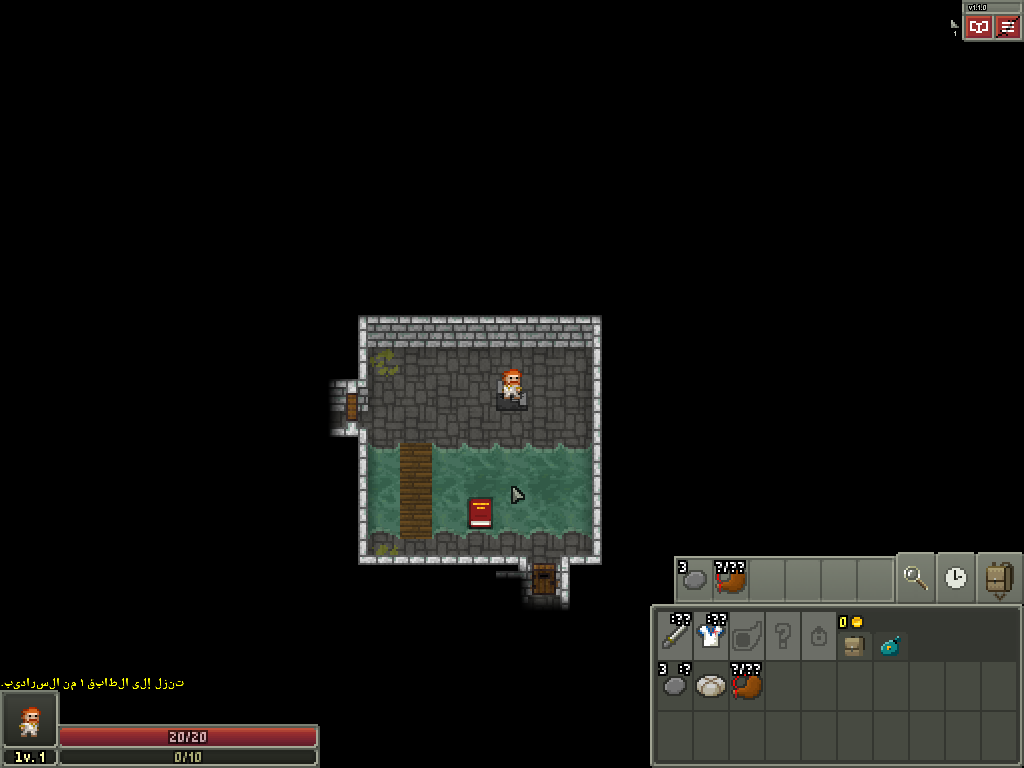
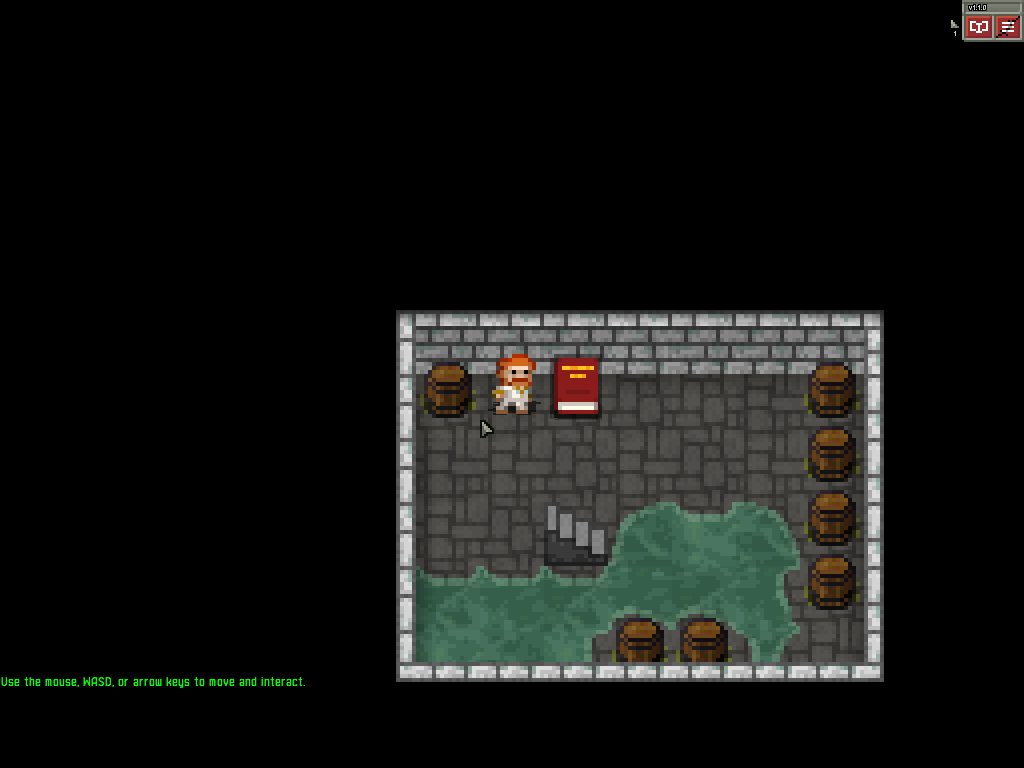
World-class README with full media gallery
English presentation README: story, features, all six heroes with
splash art, the five regions with art, all five bosses, how-to-play
guide, screenshots and a gameplay GIF. Language-specific screenshots
removed in favour of neutral English captures.

diff --git a/README.md b/README.md
@@ -1,85 +1,160 @@
-# Atlas Pixel Dungeon | سراديب أطلس
+<p align="center">
+  <img src="media/regions/sunken-cisterns.jpg" alt="The Sunken Cisterns" width="720">
+</p>
 
-**لعبة تقمّص أدوار (Roguelike) داخل سراديب خطيرة مولّدة عشوائيًا — بنسخة عربية كاملة.**
+<h1 align="center">Atlas Pixel Dungeon</h1>
 
-Atlas Pixel Dungeon هي طبعة جديدة من لعبة Shattered Pixel Dungeon مفتوحة المصدر، بهوية وقصة جديدتين مستوحاتين من أسطورة الملك أطلس، صانع الخرائط الأسطوري الذي وحّد مملكة ماوريطانيا القديمة وختم ظلامًا عتيقًا تحت قصره. انزل عبر خمس طبقات من مملكته المدفونة، اهزم حرّاسها، وانتزع **تاج أطلس** من الظلام المختوم.
+<p align="center">
+  <em>Descend into the buried kingdom of King Atlas. Claim the Crown. Seal the darkness again — or be sealed with it.</em>
+</p>
 
-**Atlas Pixel Dungeon is a reimagined edition of the open-source roguelike Shattered Pixel Dungeon** — a new world, new heroes, and a complete hand-made Arabic translation. Descend through the buried kingdom of the legendary King Atlas, defeat its five guardians, and claim the **Crown of Atlas**.
+<p align="center">
+  <img src="https://img.shields.io/badge/version-1.1.0-gold" alt="Version 1.1.0">
+  <img src="https://img.shields.io/badge/license-GPL--3.0-blue" alt="License GPL-3.0">
+  <img src="https://img.shields.io/badge/platform-Android%20%7C%20Desktop-green" alt="Platforms">
+  <img src="https://img.shields.io/badge/languages-22%20incl.%20full%20Arabic-red" alt="22 languages">
+</p>
 
----
+<p align="center">
+  <img src="screenshots/gameplay.gif" alt="Gameplay" width="560">
+</p>
 
-## لقطات | Screenshots
+**Atlas Pixel Dungeon** is a traditional roguelike dungeon crawler with randomly generated levels, hundreds of items, and turn-based tactical combat. Every run is different: the floors, the loot, the enemies and the dangers are generated fresh each time you play — and death is permanent.
 
-![العنوان بالعربية](screenshots/title_ar.png)
-![اختيار البطل](screenshots/heroes_ar.png)
-![داخل اللعبة](screenshots/gameplay.png)
-![الإعدادات بالعربية](screenshots/settings_ar.png)
+It is a full reimagining of the open-source classic *Shattered Pixel Dungeon*, rebuilt around a new legend: **Atlas**, the ancient king and cartographer who mapped the mountains, forged the **Crown of Atlas**, and sealed an ancient darkness beneath his kingdom. The city above still whispers that the Crown rests in the depths below. Many heroes have gone down to claim it. None have returned.
 
----
+Will you conquer the dungeon and claim the Crown?
 
-## الأبطال الستة | The Six Heroes
+## ✨ Features
 
-| البطل | Hero | الوصف |
-|---|---|---|
-| الملك أطلس | **Atlas King** | محارب صلب؛ يتحمل ضررًا أقل كلما تضرّر درعه |
-| حكيم النجوم | **Star Sage** | ساحر يوجّه قوة عصاه السحرية |
-| ظل الكثبان | **Dune Shadow** | مخادع سريع يضرب من الظل |
-| صيّادة الأرز | **Cedar Huntress** | صيّادة بروح رفيقة وقوس لا يخيب |
-| نصل السيروكو | **Sirocco Blade** | مبارزة تزداد قوة مع كل ضربة متتالية |
-| كاهن الفجر | **Dawn Priest** | رجل دين يحمل مخطوطة الفجر ويخدم الضعفاء |
+- **A complete new world and story** — a buried kingdom in five layers, with rewritten lore, characters, enemies and endings
+- **6 heroes**, each with unique abilities, and **12 subclasses** to specialize into
+- **25 floors** of procedurally generated dungeon, plus generated side-floors and quests
+- **5 bosses**, each with its own arena and mechanics
+- **Hundreds of items**: weapons, armor, wands, rings, artifacts, potions, scrolls, seeds and more
+- **Full Arabic localization** with proper connected-script rendering — alongside 21 other languages
+- **In-game news and updates served from this very repository** (see [`news.xml`](news.xml))
+- **No account, no always-online requirement** — a classic single-player roguelike
+- **Completely free and open source** under the GNU GPL-3.0
 
-## المناطق والزعماء | Regions & Bosses
+## 🗡 The Heroes
 
-الصهاريج الغارقة (The Sunken Cisterns) — **سيد الوحل The Mirelord**
-سجن السلاسل (The Prison of Chains) — **حارس السلاسل The Chain Warden**
-كهوف الجذور (The Root Caves) — **المحرّك المدفون The Buried Engine (AE-300)**
-المدينة المدفونة (The Buried City) — **الملك المدفون The Buried King**
-القاعات المختومة (The Sealed Halls) — **الظلام المختوم The Sealed Darkness**
+<table>
+  <tr>
+    <td align="center" width="33%"><img src="media/heroes/atlas-king.jpg" width="260" alt="Atlas King"><br><b>Atlas King</b><br>The heir of the mountain throne. His <b>mountain seal</b> turns part of the damage he takes into shielding, and the seal can carry a single upgrade between armors. A durable front-line fighter.</td>
+    <td align="center" width="33%"><img src="media/heroes/star-sage.jpg" width="260" alt="Star Sage"><br><b>Star Sage</b><br>A scholar of the celestial charts. Begins with a <b>magic staff</b> that can be imbued with any wand he finds, growing stronger as he masters the arcane.</td>
+    <td align="center" width="33%"><img src="media/heroes/dune-shadow.jpg" width="260" alt="Dune Shadow"><br><b>Dune Shadow</b><br>A silent walker of the sands. His <b>dune cloak</b> lets him vanish from sight and strike from the shadows for devastating surprise attacks.</td>
+  </tr>
+  <tr>
+    <td align="center" width="33%"><img src="media/heroes/cedar-huntress.jpg" width="260" alt="Cedar Huntress"><br><b>Cedar Huntress</b><br>Raised among the cedar forests. Her <b>spirit bow</b> never runs out of arrows, and her senses reach through grass and walls to track her prey.</td>
+    <td align="center" width="33%"><img src="media/heroes/sirocco-blade.jpg" width="260" alt="Sirocco Blade"><br><b>Sirocco Blade</b><br>Fast as the desert wind. A duelist who unlocks a special <b>weapon ability</b> from every weapon she wields, and chains them together in flowing combos.</td>
+    <td align="center" width="33%"><img src="media/heroes/dawn-priest.jpg" width="260" alt="Dawn Priest"><br><b>Dawn Priest</b><br>A servant of the first light. Carries the <b>Tome of Dawn</b>, whose divine spells grow in power as he gains experience and guides his flock of light through the dark.</td>
+  </tr>
+</table>
 
----
+Every hero can choose between **two subclasses** at depth, spend **talent points** as they level up, and — after proving themselves — attempt **challenge runs** with special rules for veteran players.
 
-## كيفية اللعب | How to Play
+## 🏰 The Buried Kingdom
 
-**الهدف:** انزل إلى أعمق طابق، اهزم الظلام المختوم، وخذ تاج أطلس ثم اصعد به إلى السطح. الموت دائم — إذا سقط بطلك تبدأ من جديد بسراديب مختلفة.
+The dungeon is the buried kingdom of Atlas itself, sunk layer by layer beneath the mountain:
 
-**The goal:** descend to the deepest floor, defeat the Sealed Darkness, take the Crown of Atlas, and escape back to the surface. Death is permanent — every run generates a brand-new dungeon.
+<table>
+  <tr>
+    <td><img src="media/regions/sunken-cisterns.jpg" width="320" alt="The Sunken Cisterns"></td>
+    <td><b>1 · The Sunken Cisterns</b> (floors 1–5)<br>The great vaults that once fed the city above with mountain water. The harmless creatures of the vaults have grown ferocious as dark energy crept up from below.<br>Boss: <b>The Mirelord</b></td>
+  </tr>
+  <tr>
+    <td><img src="media/regions/prison-of-chains.jpg" width="320" alt="The Prison of Chains"></td>
+    <td><b>2 · The Prison of Chains</b> (floors 6–10)<br>Where the king's prisoners — and later, his secrets — were kept under lock and ward. Something down here still rattles its chains.<br>Boss: <b>The Chain Warden</b></td>
+  </tr>
+  <tr>
+    <td><img src="media/regions/root-caves.jpg" width="320" alt="The Root Caves"></td>
+    <td><b>3 · The Root Caves</b> (floors 11–15)<br>Natural caverns pierced by the roots of the great cedars above. The old mining engines were left running — and they do not like visitors.<br>Boss: <b>The Buried Engine (AE-300)</b></td>
+  </tr>
+  <tr>
+    <td><img src="media/regions/buried-city.jpg" width="320" alt="The Buried City"></td>
+    <td><b>4 · The Buried City</b> (floors 16–20)<br>The capital itself, entombed with its king. Its last monarch still sits the throne, and he does not receive guests kindly.<br>Boss: <b>The Buried King</b></td>
+  </tr>
+  <tr>
+    <td><img src="media/regions/sealed-halls.jpg" width="320" alt="The Sealed Halls"></td>
+    <td><b>5 · The Sealed Halls</b> (floors 21–25)<br>Below the city, behind doors that were never meant to open, waits what King Atlas sealed away at the cost of his kingdom.<br>Boss: <b>The Sealed Darkness</b></td>
+  </tr>
+</table>
 
-**التحكم | Controls**
-- **النقر / اللمس (Tap / Click):** التحرك، الهجوم، فتح الأبواب، التقاط الغنائم، استعمال السلالم
-- **أزرار الواجهة:** الحقيبة (المخزون)، الانتظار، البحث عن الفخاخ والأبواب السرية، القائمة
-- **على الحاسوب:** الأسهم أو WASD للتحرك، والماوس لكل شيء آخر
+## 👹 The Bosses
 
-**نصائح للبقاء | Survival tips**
-- كل طابق فيه لفافة تطوير واحدة على الأقل — طوّر سلاحك أو درعك الأفضل.
-- الجرعات واللفافات مجهولة في البداية؛ جرّبها بعيدًا عن الخطر.
-- ابحث في الجدران: الأبواب السرية تخفي كنوزًا وطوابق إضافية.
-- كل 5 طوابق زعيم — جهّز جرعات الشفاء والتطوير قبل النزول.
-- الطعام يقيك الجوع؛ لا تأكل حتى تشبع تمامًا إلا عند الحاجة.
+<p align="center">
+  <img src="media/bosses/mirelord.png" width="110" alt="The Mirelord">
+  <img src="media/bosses/chain-warden.png" width="110" alt="The Chain Warden">
+  <img src="media/bosses/buried-engine.png" width="110" alt="The Buried Engine">
+  <img src="media/bosses/buried-king.png" width="110" alt="The Buried King">
+  <img src="media/bosses/sealed-darkness.png" width="110" alt="The Sealed Darkness">
+</p>
 
----
+- **The Mirelord** — a living mass of cistern filth that splits, heals, and poisons the water you stand in
+- **The Chain Warden** — the prison's masked keeper, who vanishes between the pillars and strikes without warning
+- **The Buried Engine (AE-300)** — a colossal mining machine that floods its chamber and calls its lesser engines to war
+- **The Buried King** — the last king of the buried city, raising his dead court to defend the throne
+- **The Sealed Darkness** — the ancient evil Atlas could not destroy, only imprison. Break the seal at your peril
 
-## المزايا | Features
+## 🎮 How to Play
 
-- **ترجمة عربية كاملة 100%** — كل نصوص اللعبة (نحو 5,000 نص) مترجمة يدويًا، بخط عربي واضح واتجاه صحيح من اليمين لليسار
-- **22 لغة** مدعومة في الإعدادات
-- **6 أبطال** بـ12 فئة فرعية ومواهب متعددة
-- سراديب مولّدة عشوائيًا: لا جولتين متشابهتين أبدًا
-- **إعلانات اختيارية**: إعلان واحد قصير عند نهاية الجولة فقط (بعد أول 3 جولات)، ويمكن إيقافها نهائيًا من الإعدادات ← الاتصال ← «إظهار الإعلانات»
-- بدون تتبّع وبدون جمع بيانات
+**Goal.** Descend to floor 26, take the **Crown of Atlas**, and — if you dare — bring it back to the surface for the true ending. Death is permanent: when you fall, that hero's story ends, and a new hero descends.
 
-## البناء من المصدر | Building from Source
+**Controls**
 
-```
-# Desktop (JDK 17+)
+- **Touch / mouse:** tap a tile to walk there, tap an enemy to attack, tap items to pick them up and use them
+- **Desktop:** mouse, `WASD` or arrow keys to move, and full keyboard shortcuts for inventory and actions
+
+**Survival basics**
+
+1. **Everything is unidentified.** Potions and scrolls are random in every run — identify them by use, by scroll, or by careful experiment (preferably somewhere safe, standing in water)
+2. **Eat.** Hunger is a slow enemy of its own. Rations drop from enemies and hide in the dungeon's storerooms
+3. **Upgrade wisely.** Scrolls of upgrade are limited; a focused weapon or armor carries a run further than spreading upgrades thin
+4. **Use the terrain.** Doors, grass, water and chasms are weapons: burn, hide, surprise, and knock enemies into the deep
+5. **Know when to run.** A seeded garden, a locked door, a narrow bridge — position wins fights that stats cannot
+
+**Progression.** Heroes gain experience and **talent points**, choose a **subclass** after the second boss, and can empower a chosen armor or weapon with powerful enchantments and glyphs. Optional **challenges** and daily **seeded runs** await veterans.
+
+## 📸 Screenshots
+
+<p align="center">
+  <img src="screenshots/title.png" width="420" alt="Title screen">
+  <img src="screenshots/heroes.png" width="420" alt="Hero selection">
+</p>
+<p align="center">
+  <img src="screenshots/chapter.png" width="420" alt="Entering the Sunken Cisterns">
+  <img src="screenshots/gameplay.png" width="420" alt="Gameplay">
+</p>
+
+## 🌍 Languages
+
+Atlas Pixel Dungeon ships with **22 languages**, including a complete, hand-reviewed **Arabic** translation with fully connected script rendering and right-to-left interface support. Switch language any time in **Settings**.
+
+## 📰 News & Updates
+
+The game's news window and update checker read directly from **this repository**:
+
+- News articles come from [`news.xml`](news.xml) — edit it and push to publish an article to every player
+- Update notices compare against the [releases](../../releases) of this repository
+
+No third-party servers are contacted.
+
+## 🛠 Building
+
+Atlas Pixel Dungeon is a Java / [libGDX](https://libgdx.com/) project (JDK 17, Gradle).
+
+```bash
+# Desktop
 ./gradlew desktop:run
 
-# Android
-./gradlew android:assembleRelease   # or open the project in Android Studio
+# Android (open the project in Android Studio, or)
+./gradlew android:assembleRelease
 ```
 
-## الاعتمادات والرخصة | Credits & License
+## 🙏 Credits & License
 
-- تطوير هذه الطبعة: **Mohammed Guejjim** (محمد قجيم)
-- مبنية على **Shattered Pixel Dungeon** من تطوير **Evan Debenham (00-Evan)**: https://github.com/00-Evan/ShatteredPixelDungeon
-- اللعبة الأصلية **Pixel Dungeon** من **Watabou**
-- مرخّصة تحت **GNU GPL v3.0** — انظر ملف LICENSE. يمكنك نسخها وتعديلها وتوزيعها تحت نفس الرخصة، مع بقاء اعتمادات المطوّرين الأصليين.
+Atlas Pixel Dungeon is a derivative work of **Shattered Pixel Dungeon**, created by [Evan Debenham](https://shatteredpixel.com/), which is itself based on **Pixel Dungeon** by Watabou. All original credits are preserved in-game under **About**.
+
+- **Atlas edition** (story, identity, translations, and this release): [Mohammed Guejjim](https://github.com/ellsimohammed8-prog)
+- **License:** [GNU GPL-3.0](LICENSE.txt) — free to play, study, modify and redistribute under the same license
